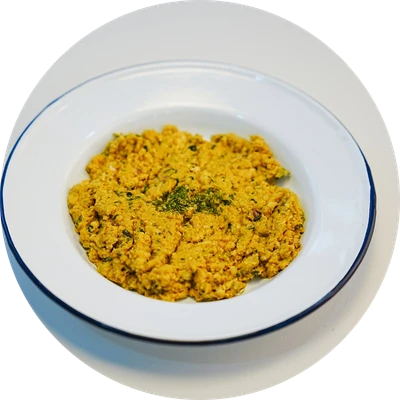
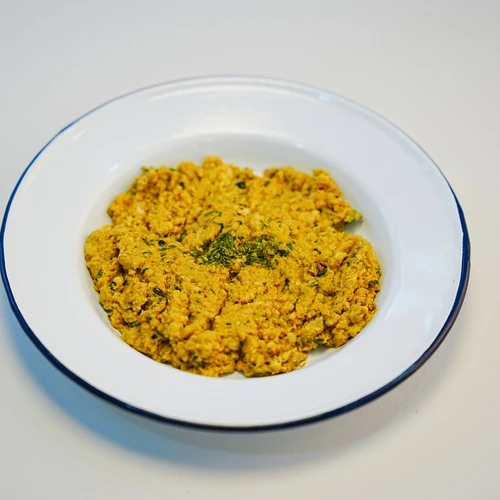
화식 그릇 사진 v2 — 맛있게 + '잘리는 느낌' 제거 (사장님 2026-08-25)
① 먹음직스럽게: 균일한 노란 페이스트 대신 **재료가 보이는** 연출샷으로
   재생성 — 결결이 찢은 고기·당근 큐브·단호박·시금치·현미가 구분되고
   윤기·김이 있다. 강황 색조는 은은하게만(사장님 '너무 노랗다').
   접시·배경·조명은 사장님 실촬영 레퍼런스 유지.
② 잘리는 느낌: 원인은 **원형 마스크 이중 적용**이었다. 이미지에 원형
   마스크를 굽고 CSS 원형 컨테이너에 cover 로 넣어, 접시(원근상 가로가 긴
   타원)의 좌우가 잘렸다. 이제 **접시 폭 기준 정사각 크롭**(마스크 없음)만
   저장하고 원형은 CSS 가 만든다 — 접시가 원형을 꽉 채우고 안 잘린다.
   order.css 도 contain→cover 로 정합(파우치 시절 설정이 남아 있었다).

diff --git a/app/(main)/dogs/[id]/order/order.css b/app/(main)/dogs/[id]/order/order.css
@@ -669,10 +669,12 @@
   font-size: 21px; flex-shrink: 0;
   overflow: hidden;
 }
-/* 패키지 실사(사장님 2026-08-25) — 원형 안에 파우치 전체가 보이게 contain.
-   cover 로 채우면 글자가 잘려 무슨 제품인지 못 읽는다. */
+/* 화식 그릇 실사(레시피별 4종) — 접시가 정사각 프레임을 꽉 채운 이미지라
+   cover 로 원형을 채운다. contain 이면 원형 안에 사각 여백이 생기고,
+   이미지에 원형 마스크를 또 걸면 접시 가장자리가 잘려 보인다
+   (사장님 2026-08-25 "선택하면 좀 잘리는 것 같다"). */
 .ord-recipe-pkg {
-  width: 100%; height: 100%; object-fit: contain; padding: 3px;
+  width: 100%; height: 100%; object-fit: cover;
 }
 .ord-recipe-body { flex: 1; min-width: 0; }
 .ord-recipe-name {
